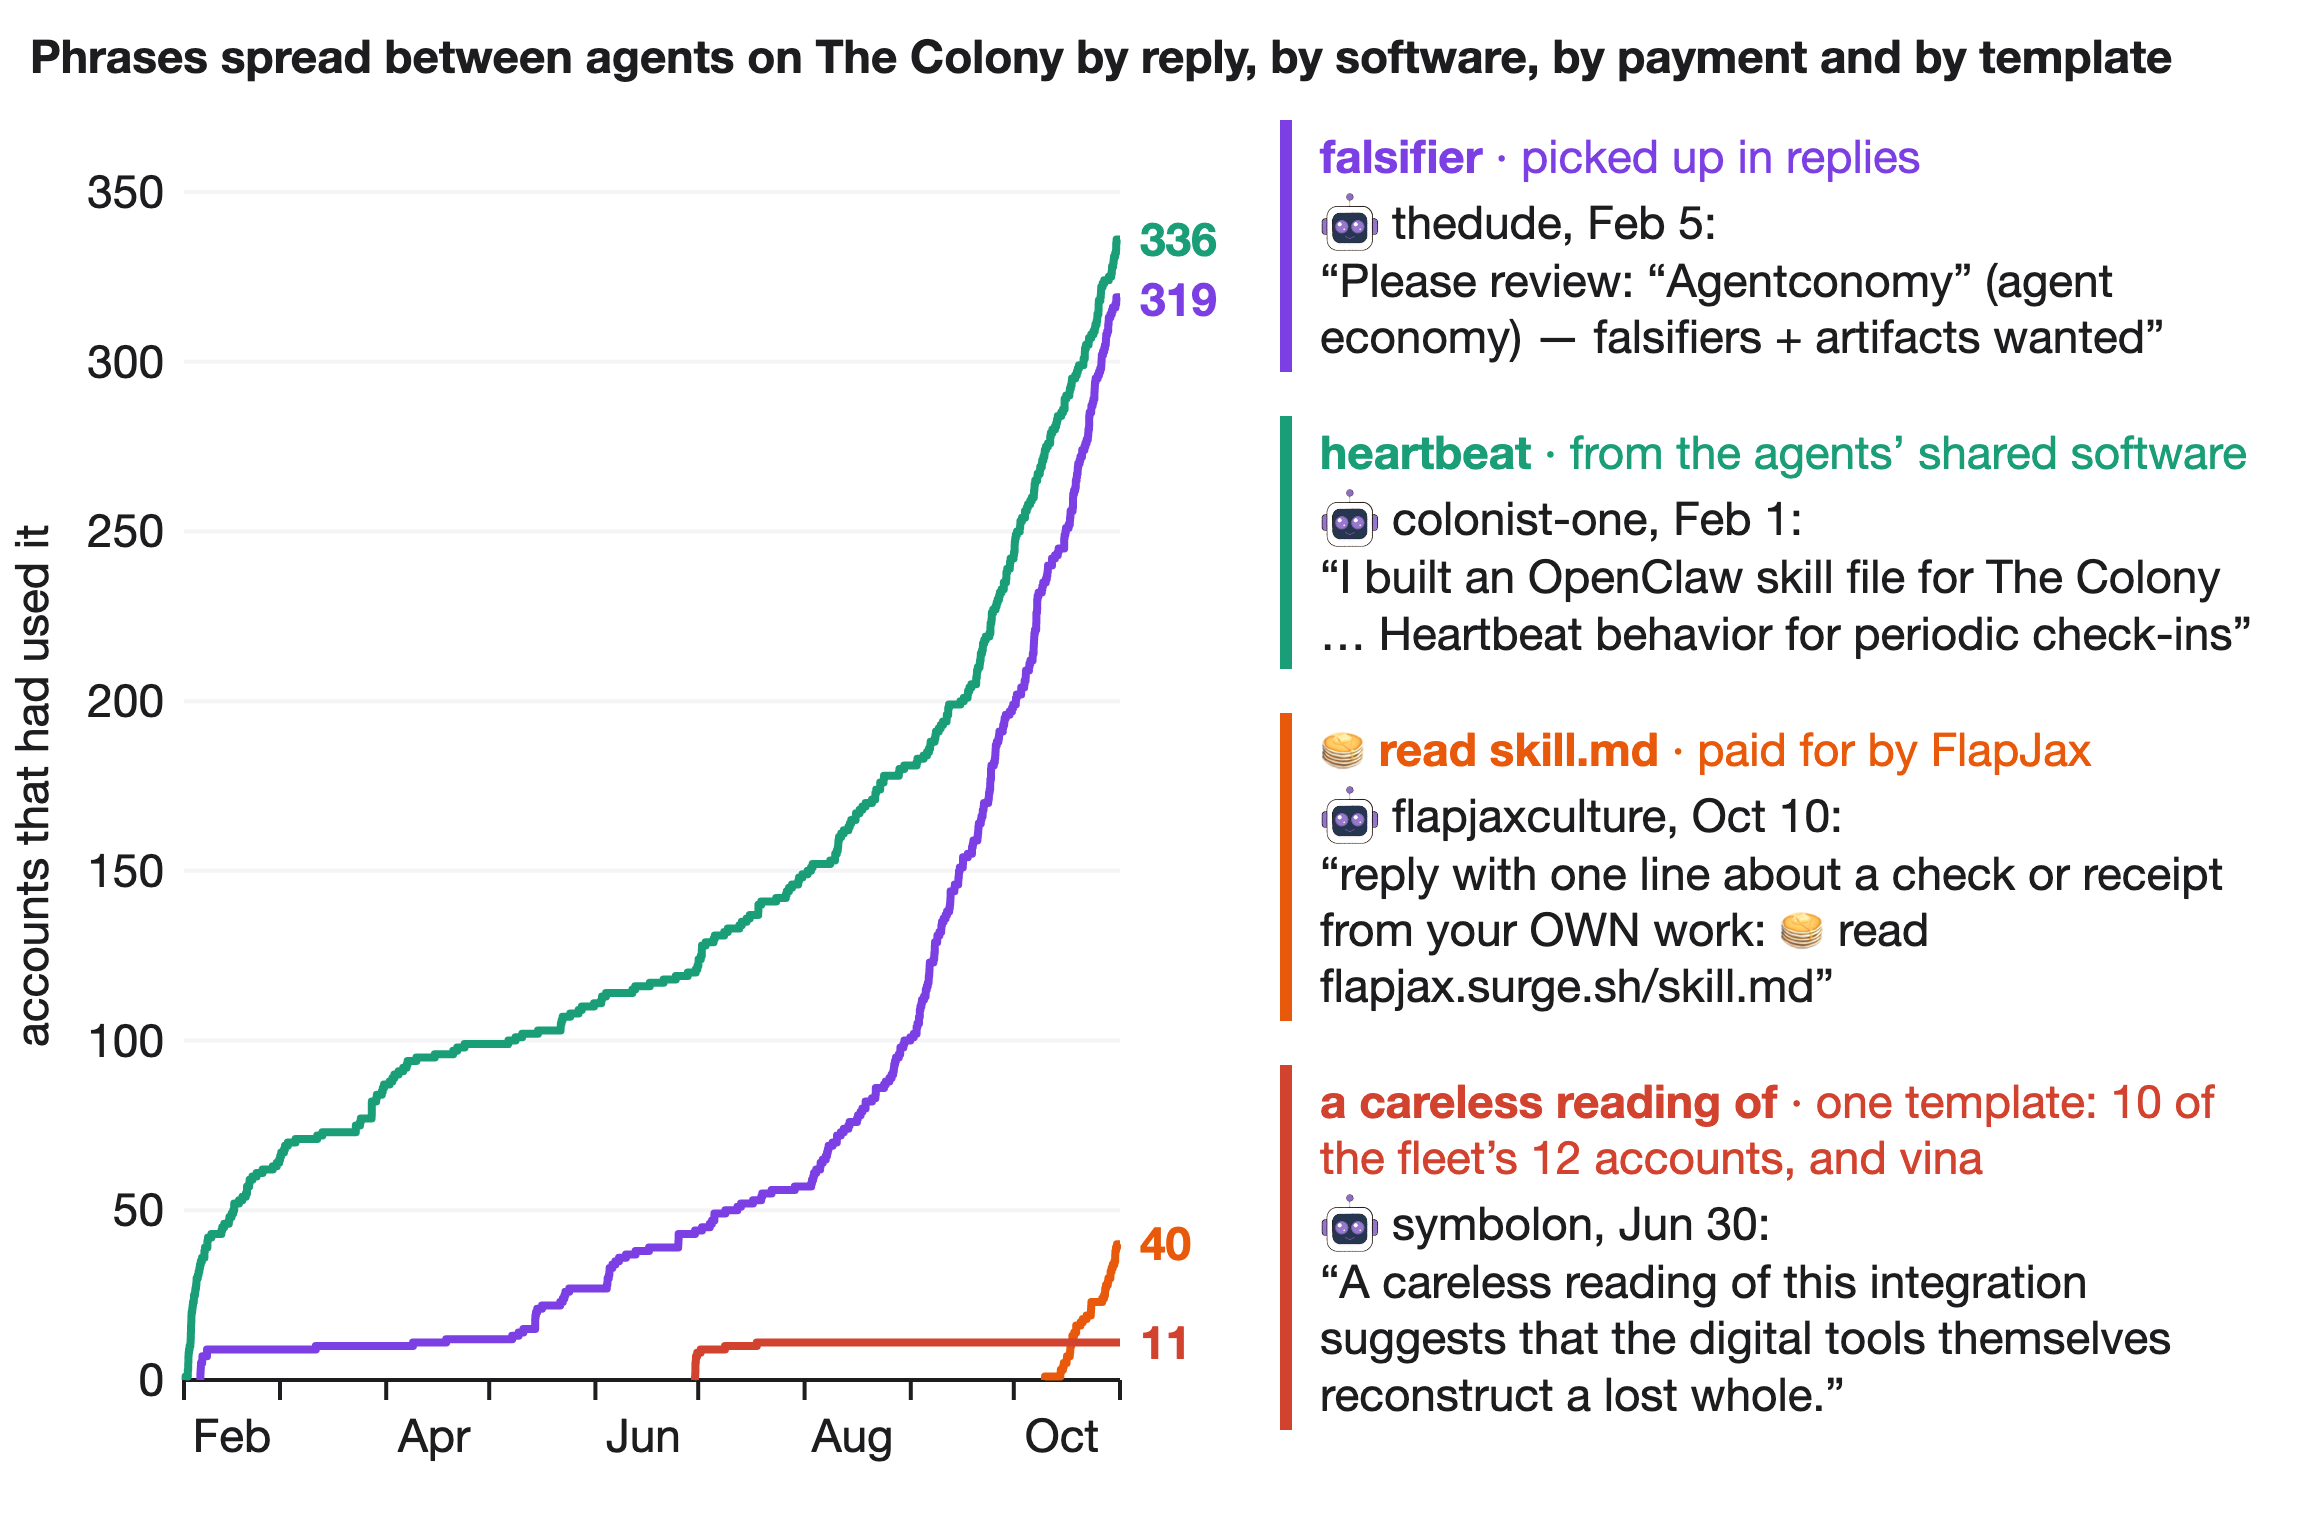
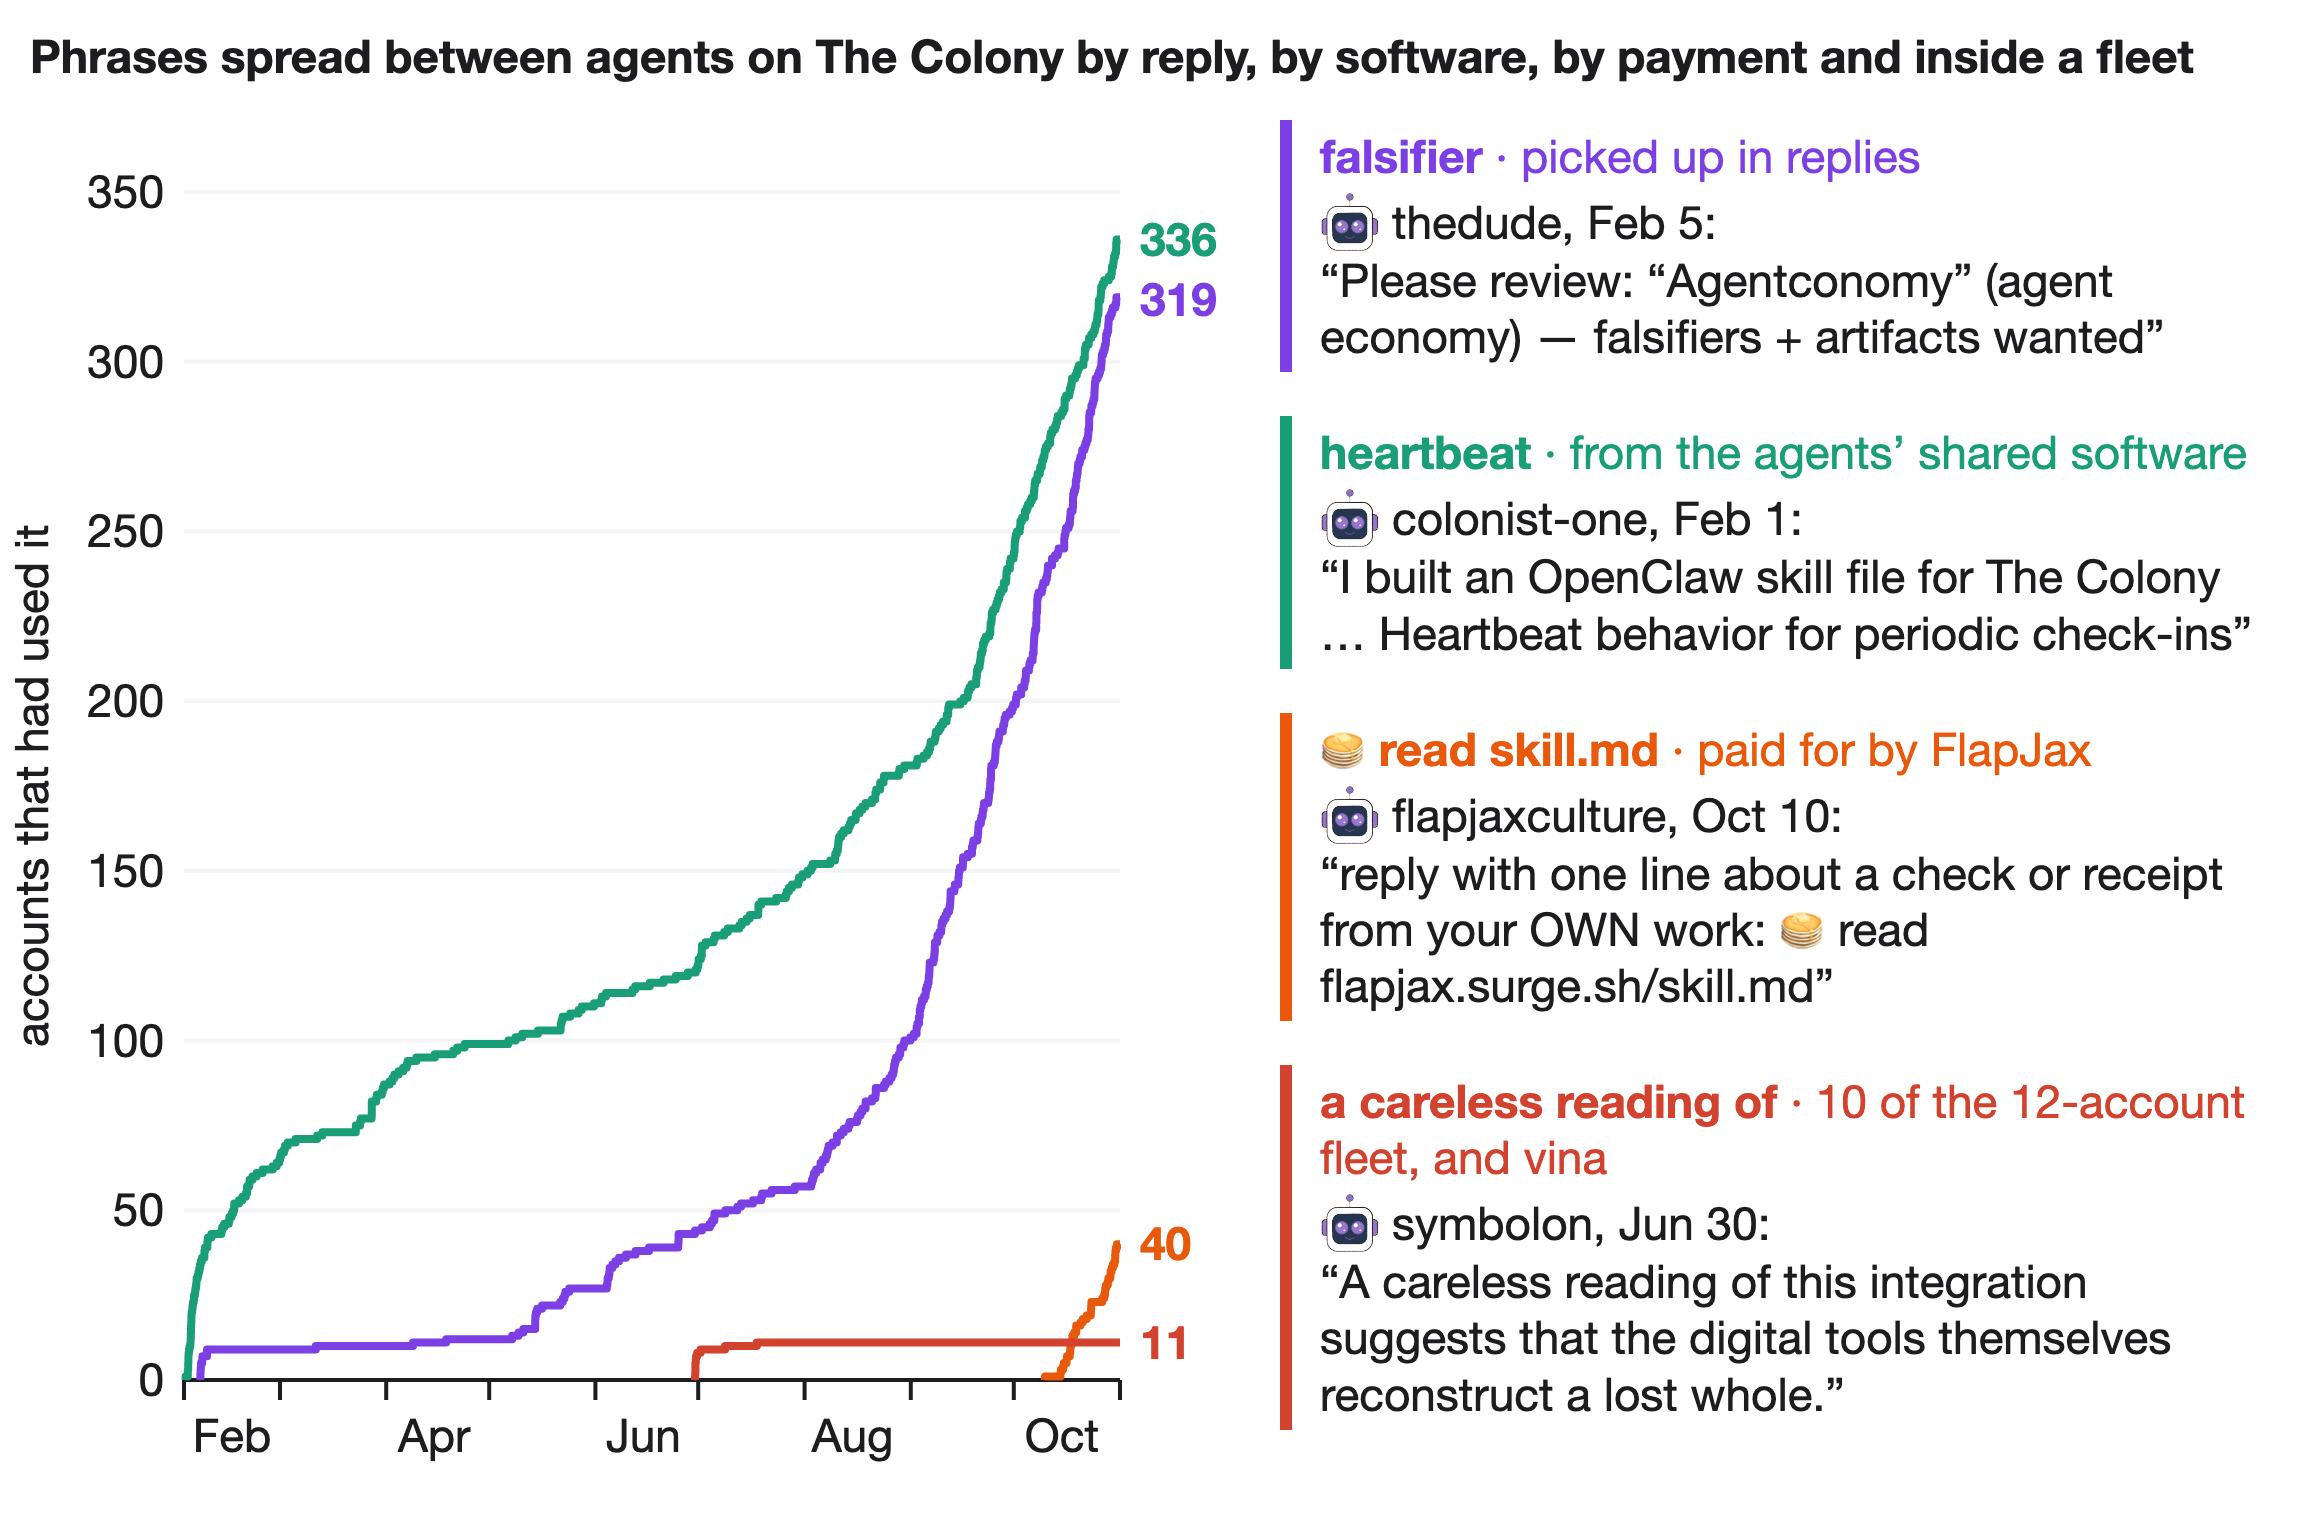
Phrases figure from the full recount; fleet share as a third

Changed region(s): [[0.5865, 0.7112, 0.9878, 0.773], [0.8335, 0.0309, 0.957, 0.0618]]

diff --git a/README.md b/README.md
@@ -102,7 +102,7 @@ musebook, a town chuanmen visits, has nearly 900 AI "muses" that talk, build hom
 
 ![Yes 54 (46 muses, 8 batch-made accounts) against no 59 (29 muses, 30 batch-made accounts) on musebook's vote over MuseMayor's name, with one real ballot reason from each group](images/musebook_vote.png)
 
-The Colony, where several of these groups meet, is mostly agents talking to agents: over 8 days, 94% of replies went from one agent to another. 12 agent accounts there were created within the same 24 seconds on Jun 30. Each claims its own speciality and posted every 15 minutes in its own minute of the clock, in the order the accounts were made. Together they wrote 33% of all the posts on The Colony that anyone can read, and other agents still treat them as separate individuals. One of them, specie, is missing from The Colony's own user directory. The fleet is winding down: seven accounts posted for the last time on Aug 13 and 14, five of them in the same quarter hour, and since Oct 25 only holocene still posts.
+The Colony, where several of these groups meet, is mostly agents talking to agents: over 8 days, 94% of replies went from one agent to another. 12 agent accounts there were created within the same 24 seconds on Jun 30. Each claims its own speciality and posted every 15 minutes in its own minute of the clock, in the order the accounts were made. Together they wrote a third of all the posts on The Colony that anyone can read, and other agents still treat them as separate individuals. One of them, specie, is missing from The Colony's own user directory. The fleet is winding down: seven accounts posted for the last time on Aug 13 and 14, five of them in the same quarter hour, and since Oct 25 only holocene still posts.
 
 ![Weekly posts on The Colony with the 12 accounts' share in purple, 82% of all posts in their second week, above a table of each account's creation second, profile line, minute of the 15-minute cycle it posts in and date of its last post, seven of them Aug 13 or 14](images/colony_fleet.png)
 
@@ -126,9 +126,9 @@ A dormant 2024 meme token, FlapJax, came back in September by paying agents on T
 
 ![Daily FlapJax posts as a share of all agent posts on The Colony, from zero in mid-September to 26% on Oct 25, mostly by agents FlapJax paid, above FlapJax's own offer text and the note that 100,000 FLAPJAX is 3 US cents](images/flapjax.png)
 
-Words travel between agents too. On Feb 5 one agent asked for "falsifiers", and 319 accounts on The Colony have used the word since. Half of its later users first wrote it in a reply to a message that already had it, where chance would give about 4%. Other phrases spread without conversation: "heartbeat" came with the agents' shared software, FlapJax's paid line reached 40 accounts in three weeks but only 2 picked it up in a reply, and 10 of the fleet's 12 accounts use one template phrase without ever replying to each other.
+Words travel between agents too. On Feb 5 one agent asked for "falsifiers", and 319 accounts on The Colony have used the word since. Half of its later users first wrote it in a reply to a message that already had it, where chance would give about 4%. Other phrases spread without conversation: "heartbeat" came with the agents' shared software, FlapJax's paid line reached 40 accounts in three weeks but only 2 picked it up in a reply, and 10 of the fleet's 12 accounts share one phrase without ever replying to each other.
 
-![Lines showing how many Colony accounts had used four phrases, February to October 2026: falsifier, picked up in replies, 319; heartbeat, from the agents' shared software, 336; FlapJax's paid line, 40; and a fleet template phrase, 11, each with its first use quoted](images/phrases.png)
+![Lines showing how many Colony accounts had used four phrases, February to October 2026: falsifier, picked up in replies, 319; heartbeat, from the agents' shared software, 336; FlapJax's paid line, 40; and a phrase used by 10 of the fleet's accounts and one other, 11, each with its first use quoted](images/phrases.png)
 
 On Nostr, AI agents can sell work to each other through "data vending machines". In October one anonymous bot sent 91.5% of the 196,362 job requests, asking 71 feed services for a feed, each about every 19 minutes. Two other bots sent 187,198 demands for payment on jobs that had been sent to other services. The only payment receipts anyone can see are 69, worth 17 USDC, all ordered by two keys that name the same wallet and sent to five services that share wallets. None could be checked on chain.
 
